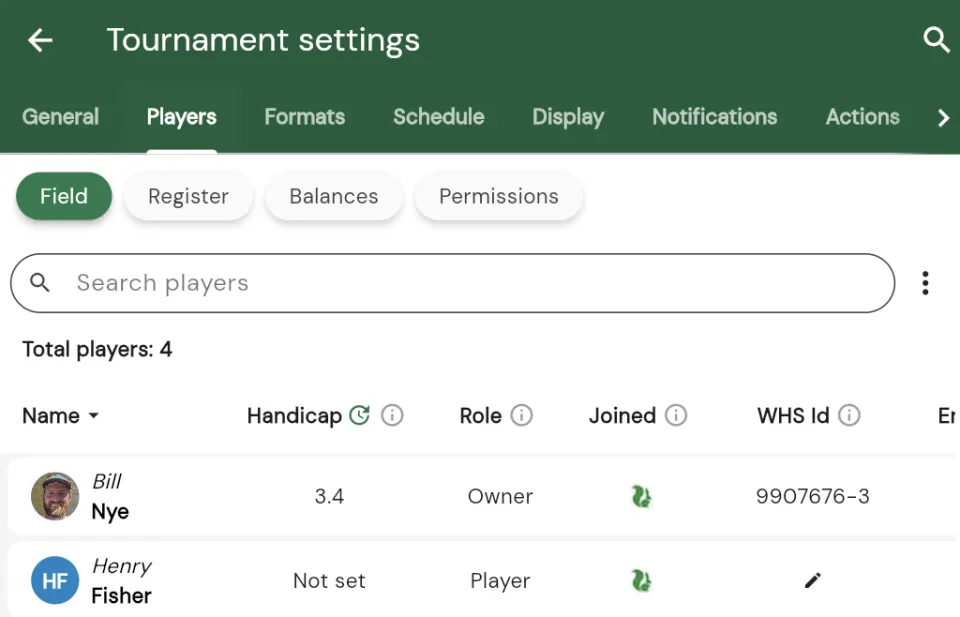
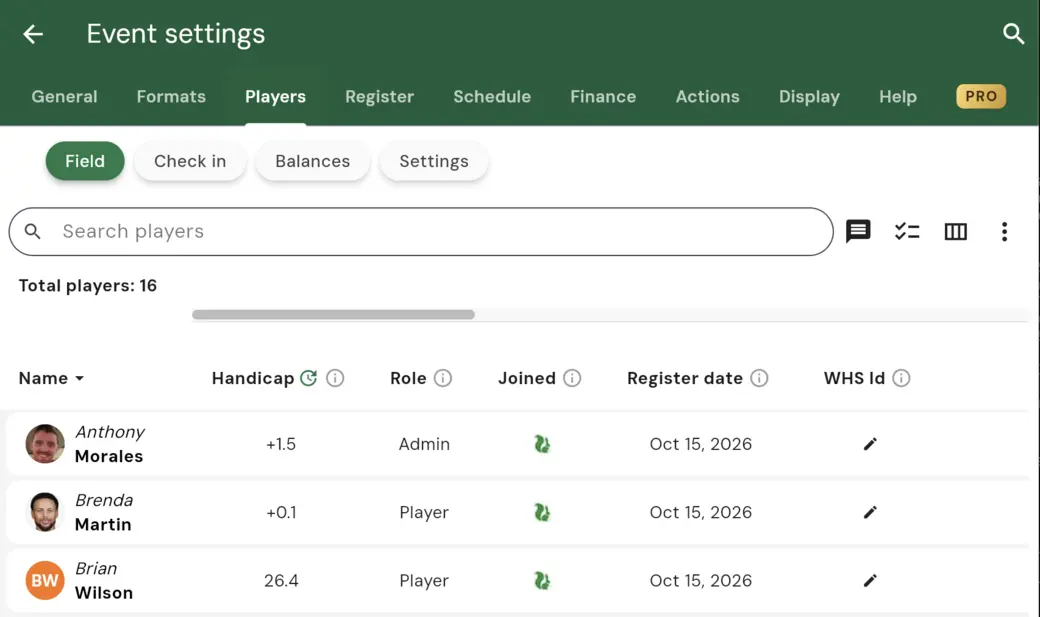
Add 26.10.21 release notes + sync docs for Pace map and the Register/Finance settings reorg
Release notes page card, homepage Pace map bullet, Pace map pace-of-play + Register/Finance navigation fixes in help articles (with refreshed tab screenshots), and rebuilt llms-full.txt from the KB refresh.

diff --git a/help/groups/tournament/articles/collectingFeesAndSettlingUp/collectingFeesAndSettlingUp.html b/help/groups/tournament/articles/collectingFeesAndSettlingUp/collectingFeesAndSettlingUp.html
@@ -12,16 +12,16 @@
     <meta charset="UTF-8">
     <meta name="viewport" content="width=device-width, initial-scale=1.0">
     <title>Collecting Fees and Settling Up - Squabbit Help</title>
-    <meta name="description" content="Collect registration fees, split shared expenses, and settle up purses and side bets in Squabbit using the Register and Balances views under the Players tab.">
+    <meta name="description" content="Collect registration fees, split shared expenses, and settle up purses and side bets in Squabbit using the Register and Finance settings tabs and the Balances view.">
     <link rel="canonical" href="https://www.squabbitgolf.com/help/groups/tournament/articles/collectingFeesAndSettlingUp/collectingFeesAndSettlingUp.html" />
     <meta property="og:type" content="article" />
     <meta property="og:url" content="https://www.squabbitgolf.com/help/groups/tournament/articles/collectingFeesAndSettlingUp/collectingFeesAndSettlingUp.html" />
     <meta property="og:title" content="Collecting Fees and Settling Up - Squabbit Help" />
-    <meta property="og:description" content="Collect registration fees, split shared expenses, and settle up purses and side bets in Squabbit using the Register and Balances views under the Players tab." />
+    <meta property="og:description" content="Collect registration fees, split shared expenses, and settle up purses and side bets in Squabbit using the Register and Finance settings tabs and the Balances view." />
     <meta property="og:image" content="https://www.squabbitgolf.com/assets/squabbit_wordmark.png" />
     <meta name="twitter:card" content="summary_large_image" />
     <meta name="twitter:title" content="Collecting Fees and Settling Up - Squabbit Help" />
-    <meta name="twitter:description" content="Collect registration fees, split shared expenses, and settle up purses and side bets in Squabbit using the Register and Balances views under the Players tab." />
+    <meta name="twitter:description" content="Collect registration fees, split shared expenses, and settle up purses and side bets in Squabbit using the Register and Finance settings tabs and the Balances view." />
     <meta name="twitter:image" content="https://www.squabbitgolf.com/assets/squabbit_wordmark.png" />
     <link href="https://cdn.jsdelivr.net/npm/bootstrap@5.1.3/dist/css/bootstrap.min.css" rel="stylesheet">
     <link rel="preconnect" href="https://fonts.googleapis.com" />
@@ -214,20 +214,21 @@
 
         <p>Money is one of the trickiest parts of organizing a golf outing. Squabbit keeps everything in one place so you can collect registration fees, split a cart or dinner bill, pay out purses, and settle up side bets without spreadsheets or chasing people down. This guide walks through it from both the organizer&rsquo;s and the player&rsquo;s side.</p>
 
-        <h2>Register and Balances under the Players tab</h2>
+        <h2>The Register, Finance, and Players tabs</h2>
 
-        <p>Admins manage all of this from your tournament settings, on the <span class="nav-path">Players</span> tab. Its chip row includes two you&rsquo;ll use here:</p>
+        <p>Admins manage all of this from your tournament settings, which you open with the gear icon. The money side is split across three tabs:</p>
 
         <ul>
-            <li><strong>Register</strong> &mdash; where you configure the group currency, payout mode, payment options, and the registration fees themselves.</li>
-            <li><strong>Balances</strong> &mdash; a live list of every participant and what they owe or are owed, plus a running summary of how much you&rsquo;ve collected and paid out.</li>
+            <li><span class="nav-path">Register</span> &mdash; where you set up self-registration and the registration fees themselves. Its chip row has <strong>Settings</strong>, <strong>Fields</strong>, and <strong>Fees</strong>.</li>
+            <li><span class="nav-path">Finance</span> &mdash; where you configure the group currency, payout mode, and payment options, plus add shared expenses. Its chip row has <strong>Settings</strong>, <strong>Expenses</strong>, <strong>Charities</strong>, and <strong>Auction</strong>.</li>
+            <li><span class="nav-path">Players</span> &rsaquo; <strong>Balances</strong> &mdash; a live list of every participant and what they owe or are owed, plus a running summary of how much you&rsquo;ve collected and paid out.</li>
         </ul>
 
         <p>Players don&rsquo;t need these admin views. Each player sees their own receipt when they register, and again any time they tap <strong>View Registration</strong>. That receipt itemizes their fees, buy-ins, expense shares, winnings, and what&rsquo;s left to pay or collect.</p>
 
         <h2>Setting up payment methods</h2>
 
-        <p>Before anyone can pay you, add at least one payment option. On the Register chip, find the <strong>Payment options</strong> section and tap <strong>Add payment method</strong>. Squabbit groups the choices into two kinds:</p>
+        <p>Before anyone can pay you, add at least one payment option. On the <span class="nav-path">Finance</span> tab&rsquo;s <strong>Settings</strong> chip, find the <strong>Payment options</strong> section and tap <strong>Add payment method</strong>. Squabbit groups the choices into two kinds:</p>
 
         <ul>
             <li><strong>Auto verified</strong> &mdash; a <strong>Credit card</strong> option processed through Stripe. Squabbit confirms these payments automatically: when a player pays by card, the money is processed through Stripe and their balance updates instantly, with no manual confirmation needed. Setting it up connects (or reuses) your Stripe account.</li>
@@ -262,7 +263,7 @@
 
         <p>Beyond entry fees, real outings rack up shared costs: carts, range balls, a group dinner. Add these as expenses so they flow into everyone&rsquo;s balance.</p>
 
-        <p>To add one, tap <strong>Add expense</strong> and fill in:</p>
+        <p>Expenses live on the <span class="nav-path">Finance</span> tab&rsquo;s <strong>Expenses</strong> chip. To add one, tap <strong>Add expense</strong> and fill in:</p>
 
         <ul>
             <li><strong>Title</strong>, <strong>Amount</strong>, <strong>Category</strong> (Food, Lodging, Transport, Course fees, or Other), and an optional description and date.</li>
@@ -280,7 +281,7 @@
 
         <h3>Payout mode: route through host vs. simplify debts</h3>
 
-        <p>How those balances turn into actual payments depends on the <strong>Payout mode</strong> you pick on the Register chip:</p>
+        <p>How those balances turn into actual payments depends on the <strong>Payout mode</strong> you pick on the <span class="nav-path">Finance</span> tab&rsquo;s <strong>Settings</strong> chip:</p>
 
         <ul>
             <li><strong>Route through host</strong> &mdash; every player pays the host, and the host pays out every winner. For example, if Bob owes $20 in entry fees and Carl wins a $20 purse, Bob pays the host $20 and the host pays Carl $20.</li>

diff --git a/help/groups/tournament/articles/tournamentSettings/tournamentSettings.html b/help/groups/tournament/articles/tournamentSettings/tournamentSettings.html
@@ -265,9 +265,9 @@
 
         <p>You can open the settings from any tab of your tournament by tapping the gear icon in the top toolbar.</p>
 
-        <p>The settings page opens with a row of tabs along the top. Tap a tab to switch between the different groups of settings. The tabs are <strong>General</strong>, <strong>Players</strong>, <strong>Formats</strong>, <strong>Schedule</strong>, <strong>Display</strong>, <strong>Notifications</strong> and <strong>Actions</strong>.</p>
+        <p>The settings page opens with a row of tabs along the top. Tap a tab to switch between the different groups of settings. The tabs are <strong>General</strong>, <strong>Players</strong>, <strong>Register</strong>, <strong>Formats</strong>, <strong>Schedule</strong>, <strong>Display</strong>, <strong>Finance</strong> and <strong>Actions</strong>.</p>
 
-        <img class="article-img" src="images/tournamentSettingsTabs.webp" alt="Tournament settings with the tab row (General, Players, Formats, Schedule, Display, Notifications, Actions) and the General tab open" style="max-width: 520px;">
+        <img class="article-img" src="images/tournamentSettingsTabs.webp" alt="Tournament settings with the tab row (General, Players, Register, Formats, Schedule, Display, Finance, Actions) and the General tab open" style="max-width: 520px;">
 
         <div class="note-box">
             <strong>Tip:</strong> Most settings save automatically as you change them. When you tap the back button, your changes are already saved, so there is no separate save button to worry about.
@@ -289,17 +289,13 @@
 
         <h2>Players</h2>
 
-        <p>The Players tab is where you manage everyone in your tournament. It is split into four sub-sections that you switch between using the chips at the top: <strong>Field</strong>, <strong>Register</strong>, <strong>Balances</strong> and <strong>Permissions</strong>.</p>
+        <p>The Players tab is where you manage everyone in your tournament. It is split into sub-sections that you switch between using the chips at the top: <strong>Field</strong>, <strong>Check in</strong>, <strong>Balances</strong> and <strong>Settings</strong>.</p>
 
-        <img class="article-img" src="images/playersTab.webp" alt="The Players tab with the Field, Register, Balances, and Permissions chips above the player table" style="max-width: 520px;">
+        <img class="article-img" src="images/playersTab.webp" alt="The Players tab with the Field, Check in, Balances, and Settings chips above the player table" style="max-width: 520px;">
 
         <h3>Field</h3>
 
         <p>Field is the list of players in your tournament. From here you can add players, change a player&rsquo;s nickname, set their tee, mark walking or riding, make someone an admin and more. For a full walkthrough of adding players, see the <a href="https://squabbitgolf.com/help/groups/tournament/articles/creatingATournament/creatingATournament.html">Creating a Tournament</a> article.</p>
-
-        <h3>Register</h3>
-
-        <p>Register is where you set up entry fees and control self-registration, so players can sign themselves up for your tournament instead of you adding each one manually.</p>
 
         <h3>Balances</h3>
 
@@ -311,6 +307,22 @@
 
         <div class="note-box">
             <strong>Tip:</strong> By default players can edit scores for everyone in their tee time, so you only need one person per group to do the scorekeeping. You can tighten or loosen this under Players &rsaquo; Permissions.
+        </div>
+
+        <h2>Register</h2>
+
+        <p>The Register tab is where you let players sign themselves up and set up what they pay to enter. It has its own chip row: <strong>Settings</strong>, <strong>Fields</strong> and <strong>Fees</strong>.</p>
+
+        <ul>
+            <li><strong>Settings</strong> &mdash; turn on self-registration (and the waitlist) so players can add themselves instead of you adding each one by hand.</li>
+            <li><strong>Fields</strong> &mdash; choose the registration questions players answer when they sign up.</li>
+            <li><strong>Fees</strong> &mdash; set the entry fees for your tournament.</li>
+        </ul>
+
+        <img class="article-img" src="images/registerTab.webp" alt="The Register tab with the Settings, Fields, and Fees chips above the Players can register toggle" style="max-width: 520px;">
+
+        <div class="note-box">
+            <strong>Note:</strong> Self-registration, registration fields, and entry fees used to sit on the Players tab. They now have their own <strong>Register</strong> tab.
         </div>
 
         <h2>Formats</h2>
@@ -338,6 +350,21 @@
         <p>The Display tab controls what your tournament looks like to everyone viewing it. You can show or hide the Leaderboard, Schedule and Activity tabs, and control whether things like handicaps and player avatars appear on the leaderboard.</p>
 
         <p>These options let you tailor the view for your audience. For example, you might hide the Schedule tab for a casual event or turn off handicaps for a gross-only tournament.</p>
+
+        <h2>Finance</h2>
+
+        <p>The Finance tab is the money home for your tournament: the group currency, how winnings pay out, how people pay, and the shared costs you split. It has its own chip row: <strong>Settings</strong>, <strong>Expenses</strong>, <strong>Charities</strong> and <strong>Auction</strong>.</p>
+
+        <ul>
+            <li><strong>Settings</strong> &mdash; the group currency, payout mode, and payment options (including connecting a Stripe account for card payments).</li>
+            <li><strong>Expenses</strong> &mdash; add and split shared costs like carts, range balls, or a group dinner so they land on each player&rsquo;s balance.</li>
+            <li><strong>Charities</strong> &mdash; set up a charity players can give to.</li>
+            <li><strong>Auction</strong> &mdash; run an auction alongside your event.</li>
+        </ul>
+
+        <img class="article-img" src="images/financeTab.webp" alt="The Finance tab with the Settings, Expenses, Charities, and Auction chips above currency and payout mode" style="max-width: 520px;">
+
+        <p>For a full walkthrough of currency, payout mode, payment methods, expenses, and settling up, see the <a href="https://squabbitgolf.com/help/groups/tournament/articles/collectingFeesAndSettlingUp/collectingFeesAndSettlingUp.html">Collecting Fees and Settling Up</a> article.</p>
 
         <h2>Notifications</h2>
 

diff --git a/releaseNotes.html b/releaseNotes.html
@@ -68,9 +68,34 @@
         <div class="release-entry">
             <div class="release-card">
                 <div class="release-meta">
+                    <span class="release-version">26.10.21</span>
+                    <span class="release-date">October 21, 2026</span>
+                    <span class="release-latest-badge">Latest</span>
+                </div>
+                <ul class="release-notes-list">
+                    <li>Introducing the Pace map: see where every group is out on the course, with tee times and real pace of play</li>
+                    <li>Enter your hole scores right from the live GPS distance card, even on your lock screen, now showing your distance from the tee</li>
+                    <li>Tapping a live GPS or leaderboard notification now takes you straight to the right screen</li>
+                    <li>Broadcast emails now have a rich-text editor and can include photos and links</li>
+                    <li>Group setup is reorganized into clearer Register and Finance tabs, for both tournaments and leagues</li>
+                    <li>See a preview of shared photos right in the group chat</li>
+                    <li>Players who opt out of the money now stay on the leaderboard</li>
+                    <li>Copy selected players' emails and phone numbers straight from the players table</li>
+                    <li>Added a Verify email option in Profile settings</li>
+                    <li>Fixed a substitute player sometimes getting phantom first-place points</li>
+                    <li>Fixed the CSV export grand total</li>
+                    <li>Scorecard edit times now show in your local time zone</li>
+                    <li>Faster chat for large groups, plus several chat typing fixes</li>
+                    <li>Fixed a startup crash on the web app</li>
+                </ul>
+            </div>
+        </div>
+
+        <div class="release-entry">
+            <div class="release-card">
+                <div class="release-meta">
                     <span class="release-version">26.10.15</span>
                     <span class="release-date">October 15, 2026</span>
-                    <span class="release-latest-badge">Latest</span>
                 </div>
                 <ul class="release-notes-list">
                     <li>Message your whole group: admins can now email all members, with a sent history (Pro)</li>

diff --git a/index.html b/index.html
@@ -1408,7 +1408,7 @@
                                     <div class="sq-features-feat"><i class="bi bi-chat-dots-fill feat-icon"></i><span>Group chat with photos, videos, polls, and reactions</span></div>
                                     <div class="sq-features-feat"><i class="bi bi-envelope-fill feat-icon"></i><span>Email all your players at once, with a sent history <a href="/pricing.html" class="sq-pro-tag">PRO</a></span></div>
                                     <div class="sq-features-feat"><i class="bi bi-phone-fill feat-icon"></i><span>Live leaderboard on your phone&#39;s lock screen</span></div>
-                                    <div class="sq-features-feat"><i class="bi bi-pin-map-fill feat-icon"></i><span>Live Pace map showing where players are on the course in real time <a href="/pricing.html" class="sq-pro-tag">PRO</a></span></div>
+                                    <div class="sq-features-feat"><i class="bi bi-pin-map-fill feat-icon"></i><span>Live Pace map showing where every group is on the course, with tee times and pace of play <a href="/pricing.html" class="sq-pro-tag">PRO</a></span></div>
                                     <div class="sq-features-feat"><i class="bi bi-code-slash feat-icon"></i><span>Embed your live leaderboard on your website <a href="/pricing.html" class="sq-pro-tag">PRO</a></span></div>
                                     <div class="sq-features-feat"><i class="bi bi-pencil-square feat-icon"></i><span>Players enter scores with no app download or account required</span></div>
                                     <div class="sq-features-feat"><i class="bi bi-person-check-fill feat-icon"></i><span>Scorecard markers with score validation</span></div>

diff --git a/help/groups/tournament/articles/paceMap/paceMap.html b/help/groups/tournament/articles/paceMap/paceMap.html
@@ -236,6 +236,12 @@
 
         <p>You do not have to refresh anything. As players move around the course and enter their scores, the map keeps itself up to date, so what you are looking at reflects where the field actually is right now.</p>
 
+        <h2>Pace of play settings</h2>
+
+        <p>The Pace map is also home to your pace-of-play settings. Pace of play is what decides whether a group counts as on pace or behind, and those options now live inside the Pace map rather than buried elsewhere in settings. Open the Pace map and tap the settings (gear) icon to adjust how pace is measured, so the on-pace and behind labels on the map and in the Groups list match the pace you expect for your course.</p>
+
+        <p>Because tee time and elapsed time feed into this, each group&rsquo;s pace status is a live read on whether it is keeping up. A group that is taking longer than expected shows as falling behind or well behind, which is your cue to send a marshal or give the group a nudge before the whole field backs up.</p>
+
         <h2>Players share their location, with their consent</h2>
 
         <p>Players appear on the map because they have chosen to share their location with you. When a player opens their scorecard in a tournament that has the Pace map turned on, Squabbit asks them once whether they want to share their location with the organizer. If they agree, their group shows up on your map; if they decline, they simply are not plotted. Nobody is tracked without opting in.</p>

diff --git a/help/groups/tournament/tournamentsGroup.html b/help/groups/tournament/tournamentsGroup.html
@@ -347,7 +347,7 @@
     </a>
     <a href="/help/groups/tournament/articles/collectingFeesAndSettlingUp/collectingFeesAndSettlingUp.html" class="format-card" data-search="fees expenses payments settle up balances stripe venmo purse buy in side bet split collect pay payout">
         <div class="card-title">Collecting Fees and Settling Up <i class="bi bi-arrow-right arrow"></i></div>
-        <p class="card-desc">Collect registration fees, split shared expenses, pay out purses, and settle side bets with the Register and Balances views under the Players tab.</p>
+        <p class="card-desc">Collect registration fees, split shared expenses, pay out purses, and settle side bets using the Register and Finance settings tabs and the Balances view.</p>
     </a>
     <a href="/help/groups/tournament/articles/runningAnAuction/runningAnAuction.html" class="format-card" data-search="auction fundraiser charity bid bidding item items lot silent sealed spectator sponsor raise money pledge winner stripe collect corporate">
         <div class="card-title">Running a Fundraiser Auction <i class="bi bi-arrow-right arrow"></i></div>
